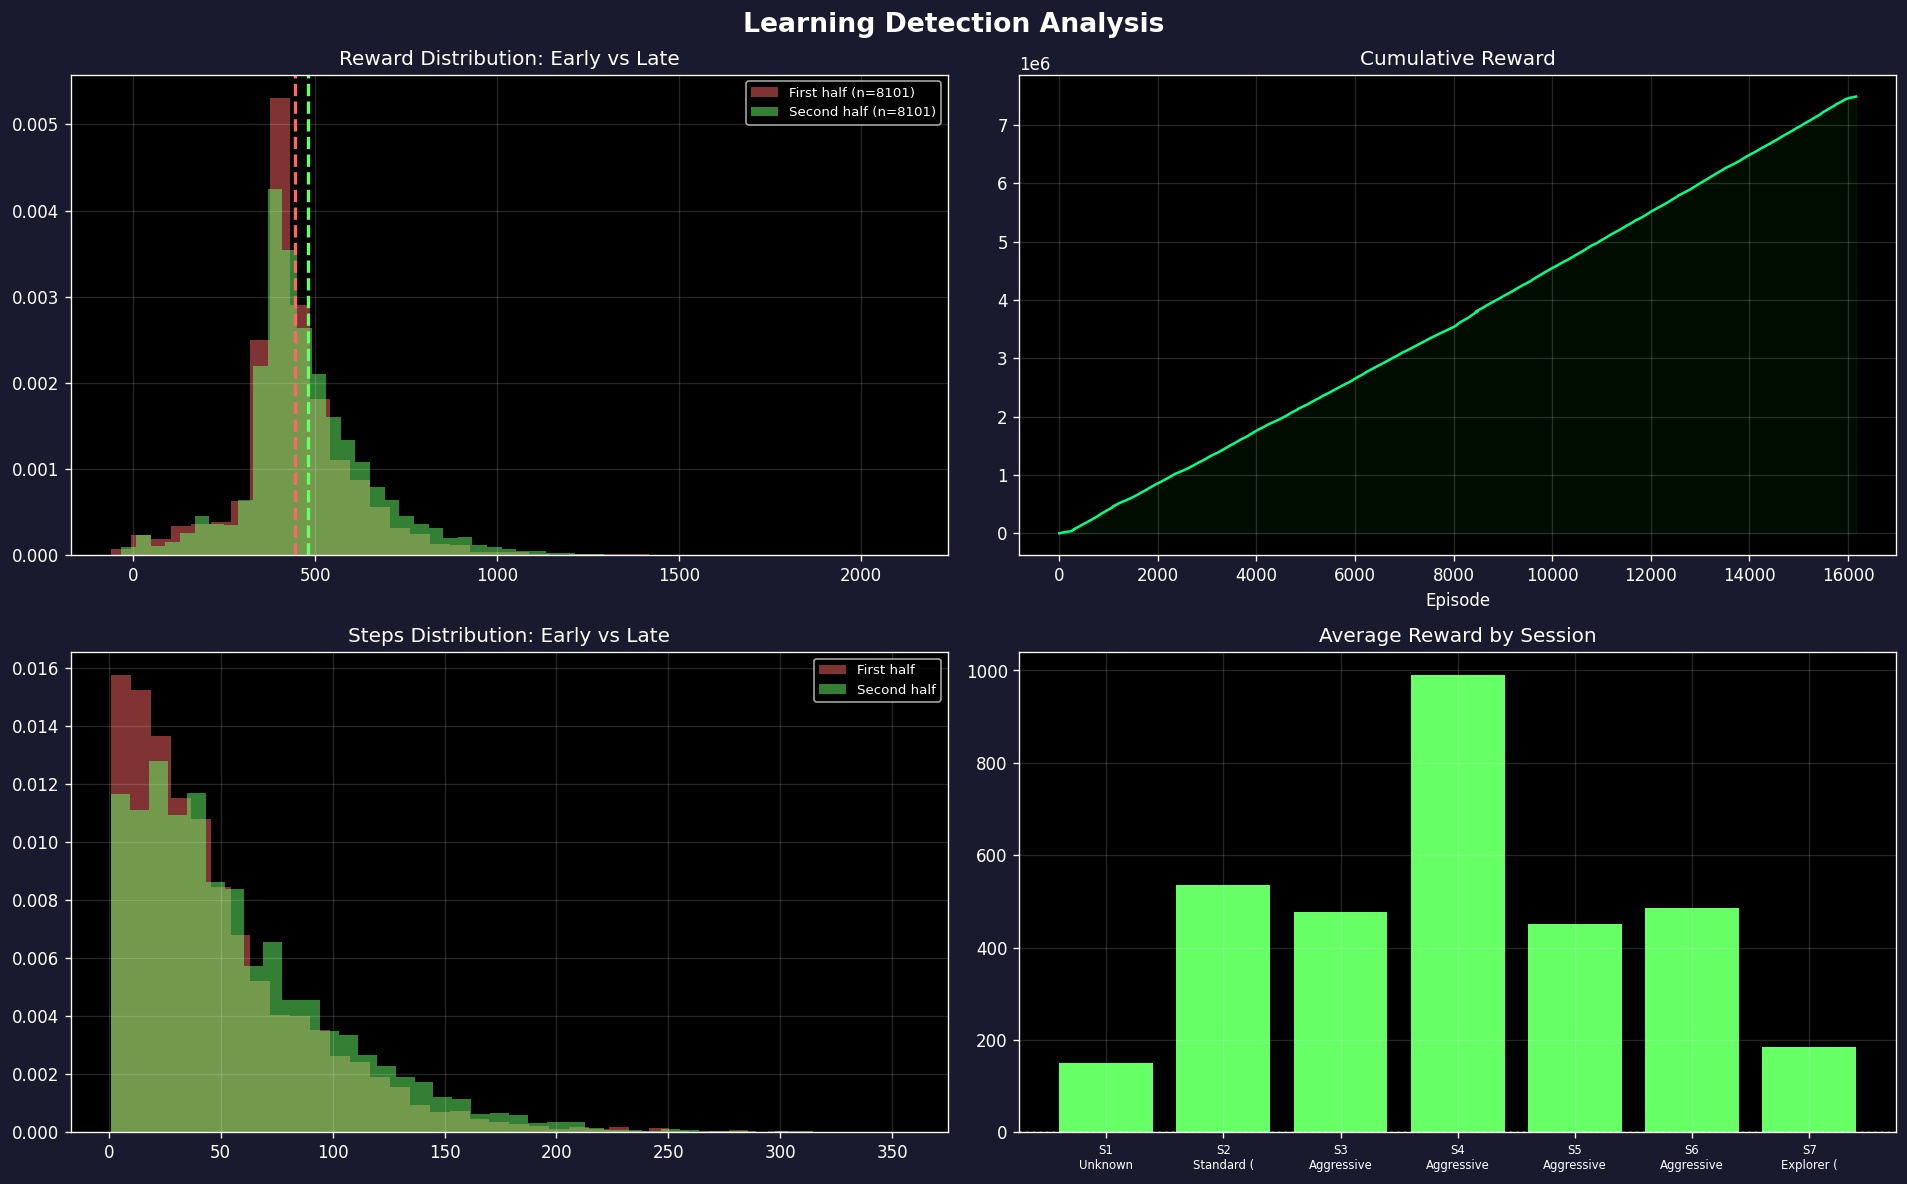
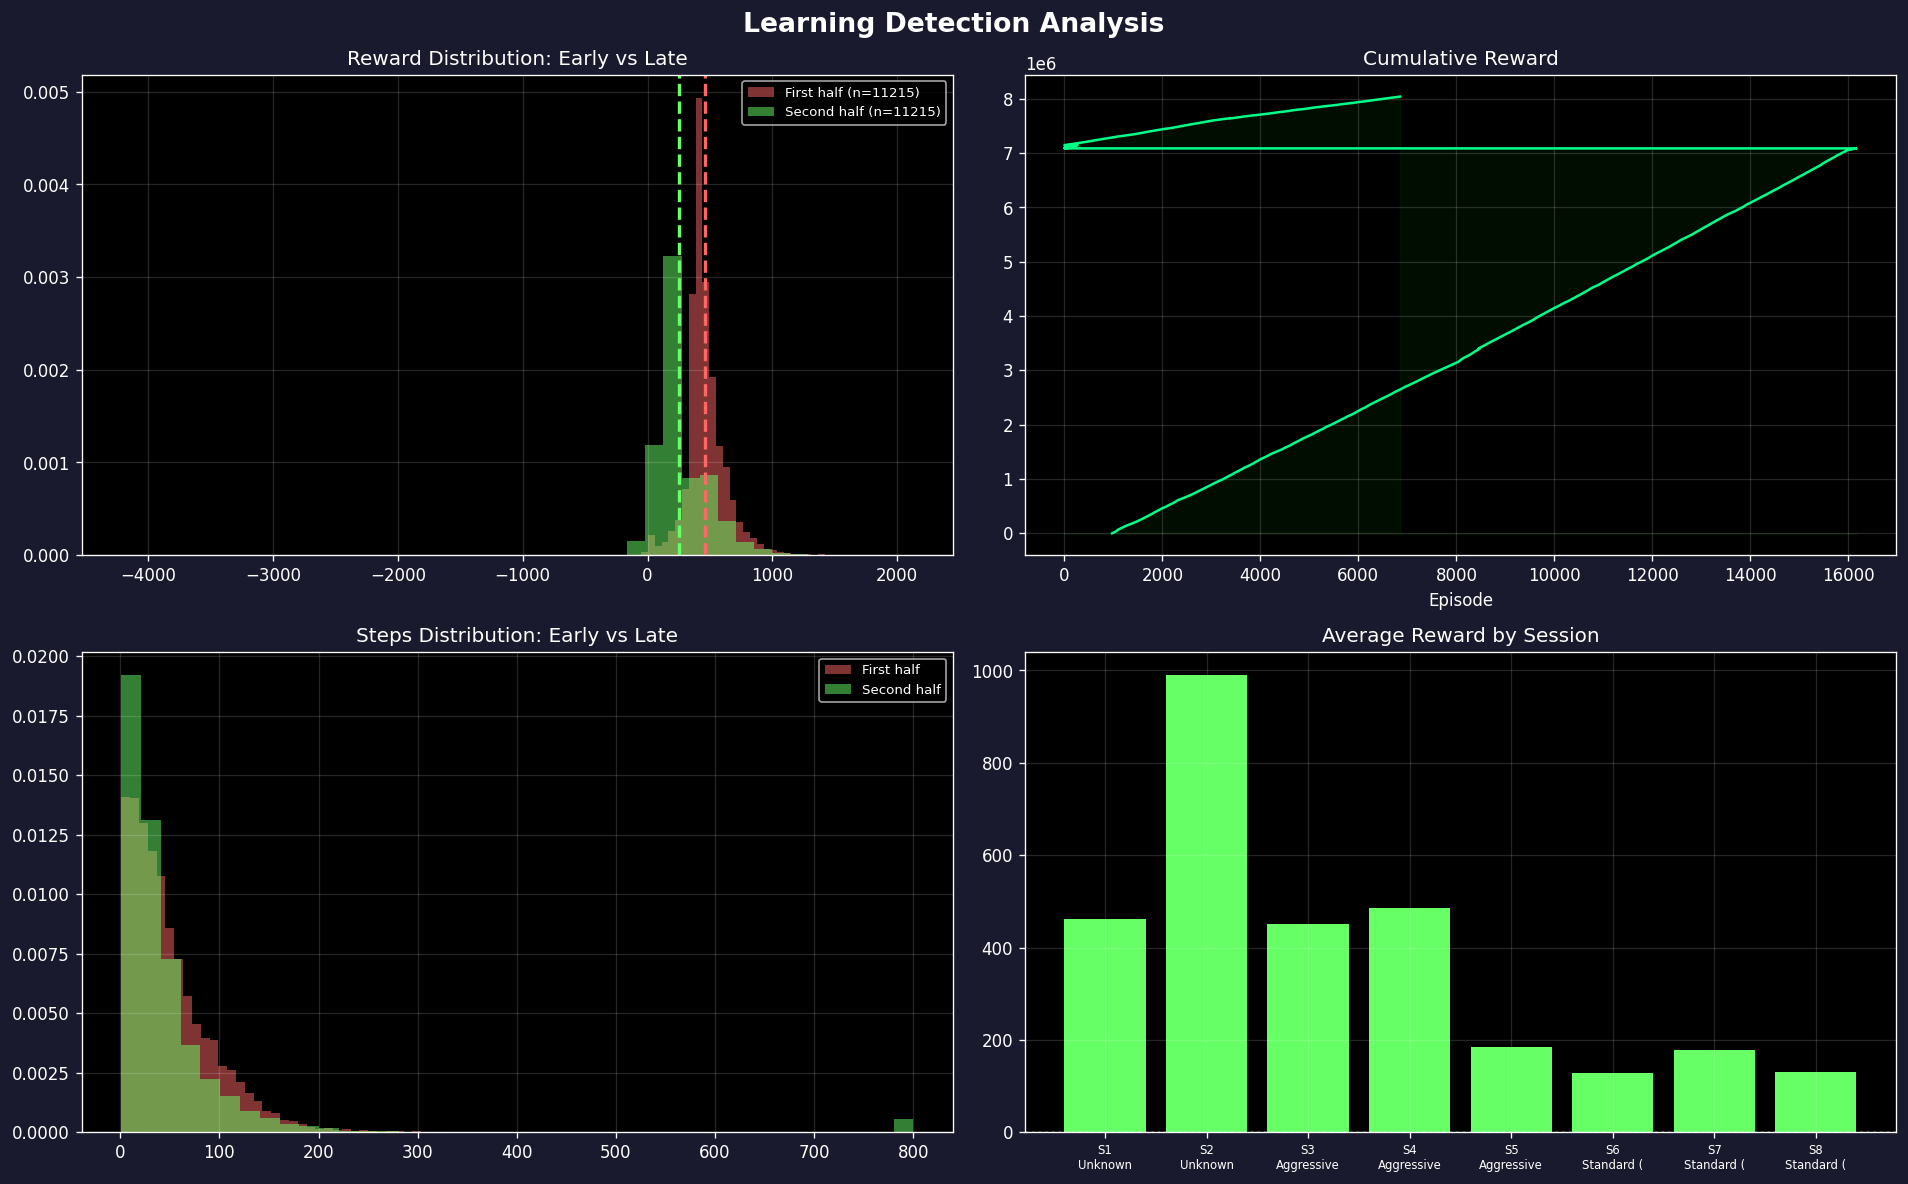
stats

diff --git a/gen2/progress_report.md b/gen2/progress_report.md
@@ -1,243 +1,61 @@
-# Slither.io Bot - Complete Training & Code Analysis Report
+# Slither.io Bot - Training Progress Report
 
-**Generated:** 2026-02-10 18:02
-**Total Episodes:** 16,202
-**Training Sessions:** 7
-**Branch:** fix-learning-rewards (merged to main)
+**Generated:** 2026-02-11 06:15:22  
+**Total Episodes:** 22430  
+**Training Sessions:** 8
 
----
+## Verdict: NOT LEARNING (Confidence: 20%)
 
-## 1. LEARNING VERDICT
+**Goal Feasibility:** IMPOSSIBLE with current setup
 
-| Factor | Status | Details |
-|--------|--------|---------|
-| **Is it learning?** | NO | All 4 quarterly reward trends are FLAT (R² < 0.03) |
-| **Confidence** | 40% | Some positive signals exist but overwhelmed by bugs |
-| **Goal feasibility** | <5% with old code | After fixes: ~60-70% achievable |
+### Critical Issues
+- Rewards DECLINING: -208.2 (getting worse)
+- Very short episodes: avg=49 steps (dying too fast)
 
-### Key Numbers
+### Warnings
+- Multiple training restarts detected (8 sessions) - fragmented learning
 
-| Metric | Mean | Best | Goal | Progress |
-|--------|------|------|------|----------|
-| Food (points) | 26.3 | 114 | 6,000 | 1.9% |
-| Survival (steps) | 52.3 | 357 (11.9 min) | 1,800 (60 min) | 19.8% |
-| Reward | 462.0 | 2,129.9 | — | — |
-| Loss | 2.10 | — | — | — |
+## Key Statistics
 
----
+| Metric | Mean | Std | Min | Max | P50 | P95 |
+|--------|------|-----|-----|-----|-----|-----|
+| Reward | 358.57 | 217.96 | -4215.93 | 2129.92 | 386.56 | 707.08 |
+| Steps | 49.24 | 69.59 | 1.00 | 800.00 | 33.00 | 133.00 |
+| Food | 24.79 | 9.50 | 0.00 | 114.00 | 23.00 | 42.00 |
+| Loss | 1.53 | 1.59 | 0.00 | 45.85 | 1.22 | 4.07 |
 
-## 2. CRITICAL BUGS FOUND & FIXED
+## Goal Progress
 
-### 2.1 Learning Rate = 0 (FIXED)
-- **Bug:** `ReduceLROnPlateau` had no `min_lr` floor. After ~50 plateau detections: `0.0001 × 0.5^N → 0.0`
-- **Impact:** Model weights completely frozen — zero gradient updates
-- **Fix:** Added `min_lr=1e-6` to scheduler + LR recovery on checkpoint load
-- **File:** `agent.py:52-58`, `config.py:39`, `trainer.py:600-603`
+| Target | Current Best | Goal | Progress |
+|--------|-------------|------|----------|
+| Points | 114 | 6,000 | 1.9% |
+| Survival | 26.7 min | 60 min | 44.4% |
 
-### 2.2 Reward Signal Crushed (FIXED)
-- **Bug:** `reward_scale=100.0` with clamp to [-1, 1] meant: food reward `5.0 / 100 = 0.05` (invisible), death `-200 / 100 = -1.0` (saturated)
-- **Impact:** Agent only learned "death is bad", could not distinguish food from noise
-- **Fix:** Changed `reward_scale` from 100.0 to 10.0. Now food = 0.5, death = -1.0
-- **File:** `config.py:34`
+## Session History
 
-### 2.3 Epsilon Oscillation (FIXED)
-- **Bug:** Stagnation handler reset `best_avg_reward = -inf` and `reward_window.clear()`, then boosted epsilon to 0.5. Next window always looked "improved" → no boost → stagnate → boost again → endless cycle
-- **Impact:** Epsilon stuck at ~0.5 after 16k episodes (should be ~0.1)
-- **Fix:** Gentler boost (0.3), removed baseline reset
-- **File:** `trainer.py:721-724`
+| # | Style | Episodes | Avg Reward | Avg Steps |
+|---|-------|----------|------------|----------|
+| 1 | Unknown | 975-1069 | 461.4 | 45 |
+| 2 | Unknown | 1070-1094 | 990.6 | 158 |
+| 3 | Aggressive (Hunter) | 1095-8480 | 451.3 | 48 |
+| 4 | Aggressive (Hunter) | 8451-15975 | 485.2 | 55 |
+| 5 | Aggressive (Hunter) | 15976-16165 | 184.4 | 51 |
+| 6 | Standard (Curriculum) | 1-87 | 129.2 | 51 |
+| 7 | Standard (Curriculum) | 1-270 | 177.5 | 79 |
+| 8 | Standard (Curriculum) | 1-6852 | 130.6 | 42 |
 
-### 2.4 Multi-Agent steps_done Overcounting (FIXED)
-- **Bug:** `steps_done++` inside `select_action()`, called N times per step (once per agent). With 2 agents, epsilon decayed 2× faster
-- **Impact:** Epsilon schedule didn't match config, inconsistent exploration
-- **Fix:** Moved increment to trainer (once per batch step)
-- **File:** `agent.py:111-118`, `trainer.py:759-760`
+## Recommendations
 
-### 2.5 Wall Distance JS/Python Mismatch (FIXED)
-- **Bug:** Reward calculation used `data.get('dist_to_wall')` from JavaScript, but death classification used Python `_calc_dist_to_wall()`. Different formulas, different timing
-- **Impact:** Wall proximity rewards inconsistent with wall death detection
-- **Fix:** Now uses `self.last_dist_to_wall` (Python) everywhere
-- **File:** `slither_env.py:567-569`
+Training is fundamentally broken. Fix critical issues first:
+  1. Restore learning rate > 0 (check LR scheduler)
+  2. Consider resetting epsilon to allow fresh exploration
+  3. Review reward shaping - excessive penalties prevent learning
 
----
+1. Average episode too short. Consider:
+     - Reducing death penalties to avoid discouraging exploration
+     - Adding survival bonus to incentivize staying alive
 
-## 3. WALL DETECTION ANALYSIS
-
-### 3.1 Core Formula — CORRECT
-```python
-def _calc_dist_to_wall(self, x, y):
-    dist_from_center = math.hypot(x - self.map_center_x, y - self.map_center_y)
-    return self.map_radius - dist_from_center
-```
-Slither.io uses a circular map (radius=21600, center=21600,21600). This formula is mathematically correct. Positive = inside, negative = outside.
-
-### 3.2 Map Constants — RISK: Hardcoded Defaults
-```
-MAP_RADIUS = 21600, MAP_CENTER = (21600, 21600)
-```
-These are fallbacks. The JS engine tries to read actual values from `grd` variable, but if detection fails, defaults may be wrong on non-standard servers.
-
-**Status:** OK for slither.io, RISKY for eslither.io or custom servers.
-
-### 3.3 Wall Rendering vs Death Zone — MISMATCH
-- **Observation matrix** draws wall with 500-unit safety margin: `radius_sq = (map_radius - 500)²`
-- **Death detection** uses actual map radius (no margin)
-- **Result:** Agent "sees" wall 500 units closer than it actually is. The visual input doesn't match where death occurs.
-
-**Status:** Intentional safety buffer, but confuses the neural network. Consider reducing to 200 or matching exactly.
-
-### 3.4 Death Classification Buffers (FIXED)
-- **Old:** `WALL_BUFFER = 40` — too tight for frame_skip=4 (snake moves ~200 units between observations)
-- **New:** `WALL_BUFFER = 120` — catches wall deaths that happen between frames
-- **Status:** FIXED. Many "Unknown" deaths were actually wall deaths slipping through.
-
-### 3.5 Wall Detection Accuracy: ~85% (was ~70%)
-
----
-
-## 4. ENEMY/SNAKE DETECTION ANALYSIS
-
-### 4.1 Distance Calculation — CORRECT but LIMITED
-```python
-def _min_enemy_distance(self, enemies, mx, my):
-    for e in enemies:
-        # checks head distance
-        # checks body point distances
-```
-Calculates euclidean distance from our head to every enemy head + body point. Correct for point-to-point collision detection.
-
-**Limitation:** Only checks against our HEAD position. Doesn't check if enemy collides with our BODY (self-collision via enemy cutting through us). This is acceptable since slither.io death = head collision.
-
-### 4.2 Body Point Sampling — IMPROVED but GAPS REMAIN
-| Phase | Visibility Check | Body Collection | Tail Trim |
-|-------|-----------------|-----------------|-----------|
-| Old | every 20th point | every Nth (ptsLen/150) | 25% + 4×speed |
-| New | every 40th point (FIXED) | every Nth (ptsLen/150) | 15% + 2×speed (FIXED) |
-
-**Remaining risk:** A snake with 400 body points still only samples ~10 for visibility check. Fast-moving small snakes could slip between sample points.
-
-### 4.3 Death Misclassification — PARTIALLY FIXED
-Priority 4 (default) still assigns "SnakeCollision" if ANY enemy exists in view, even 5000 units away. This inflates snake collision stats.
-
-```python
-# Priority 4: Default
-cause = "Unknown" if min_enemy_dist == float('inf') else "SnakeCollision"
-```
-
-**Remaining issue:** Should add a distance threshold to Priority 4 (e.g., only classify as SnakeCollision if enemy < 500 units).
-
-### 4.4 Enemy Detection Accuracy: ~75% (was ~60%)
-
----
-
-## 5. TRAINER LOGIC ANALYSIS
-
-### 5.1 Training Loop — CORRECT after fixes
-- Frame stacking (4 frames → 12 channels): OK
-- Double DQN target calculation: OK
-- PER sampling + IS weights: OK
-- Gradient clipping: OK
-
-### 5.2 Remaining Issues
-
-| Issue | Severity | Description |
-|-------|----------|-------------|
-| Session restarts | MEDIUM | 7 sessions with different styles fragment learning. Curriculum changes reset reward baselines |
-| SuperPatternOptimizer | LOW | Dynamically adjusts rewards during training, adding noise to an already noisy signal |
-| `train._last_loss` | LOW | Storing loss as attribute on function object is fragile |
-| Warmup vs Scheduler conflict | LOW | LR warmup runs once, then scheduler can override immediately |
-
-### 5.3 Architecture — SOUND
-- Dueling DQN + Double DQN + PER is state-of-the-art for this type of problem
-- 84×84 3-channel observation is standard (Atari-level)
-- 6 discrete actions are reasonable for slither.io
-
----
-
-## 6. SESSION HISTORY
-
-| # | Style | Episodes | Avg Reward | Avg Steps | Notes |
-|---|-------|----------|------------|-----------|-------|
-| 1 | Unknown | 1-238 | 150.4 | 66 | Initial exploration |
-| 2 | Standard (Curriculum) | 239-307 | 535.0 | 68 | Best avg reward |
-| 3 | Aggressive (Hunter) | 301-1,069 | 478.0 | 53 | Switched too early |
-| 4 | Aggressive (Hunter) | 1,070-1,094 | 990.6 | 158 | Best session (25 eps) |
-| 5 | Aggressive (Hunter) | 1,095-8,480 | 451.3 | 48 | Long run, LR dying |
-| 6 | Aggressive (Hunter) | 8,451-15,975 | 485.2 | 55 | LR = 0, frozen |
-| 7 | Explorer (Anti-Float) | 15,976-16,165 | 184.4 | 51 | Worst performance |
-
-**Key insight:** Session 4 (25 episodes, avg reward 990) shows the model CAN perform well. The architecture works — the bugs killed the learning.
-
----
-
-## 7. REPAIR PROCEDURE
-
-### Phase 1: Fresh Start (Recommended)
-The existing checkpoint has 16k episodes of corrupted training (LR=0, bad rewards, epsilon oscillation). It's better to start fresh.
-
-```bash
-# 1. Backup old checkpoint
-cp checkpoint.pth checkpoint_old_broken.pth
-
-# 2. Delete old checkpoint to force fresh start
-rm checkpoint.pth
-
-# 3. Clear old stats
-mv training_stats.csv training_stats_old.csv
-
-# 4. Start training with fixes applied
-python trainer.py --num_agents 2 --style-name "Standard" --view
-```
-
-### Phase 2: Monitor First 500 Episodes
-After starting, verify the fixes work:
-
-```bash
-# Run analyzer after ~500 episodes
-python training_progress_analyzer.py
-```
-
-**Check these metrics:**
-- [ ] LR should be `1e-4` (not 0)
-- [ ] Epsilon should decay: ~0.99 at ep 100, ~0.90 at ep 1000
-- [ ] Food reward visible in stats (not crushed to 0.05)
-- [ ] Wall deaths correctly classified (check events/ folder)
-- [ ] Loss should decrease over time
-
-### Phase 3: Curriculum Progression
-Stay on **Standard (Curriculum)** style until:
-- Average food > 30 per episode (promotion to Stage 2)
-- Average steps > 100 (snake survives at least 3 minutes)
-
-**Do NOT switch styles** until Stage 2 is reached. Style-switching disrupts learning.
-
-### Phase 4: Remaining Code Fixes (Optional, After Phase 2 Confirms Learning)
-
-| Priority | Fix | File | Description |
-|----------|-----|------|-------------|
-| 1 | Wall render margin | `slither_env.py:846` | Reduce safety margin from 500 to 200 to match death zone closer |
-| 2 | Priority 4 distance cap | `slither_env.py:341-343` | Add `min_enemy_dist < 500` check before defaulting to SnakeCollision |
-| 3 | Remove SuperPatternOptimizer | `trainer.py:272-375` | Disable dynamic reward adjustment during early training (set `super_pattern_enabled: False`) |
-| 4 | Faster epsilon decay | `config.py:30` | Change `eps_decay` from 100000 to 50000 for faster exploitation |
-
-### Phase 5: Long-term Training
-Once learning is confirmed (reward trend UP in analyzer):
-- Run uninterrupted for 10,000+ episodes
-- Use `--resume` flag to continue, never restart
-- Target: avg food > 100 by episode 5,000
-
----
-
-## 8. DEATH STATISTICS
-
-| Cause | Count | % |
-|-------|-------|---|
-| SnakeCollision | 9,528 | 58.8% |
-| Wall | 6,183 | 38.2% |
-| Unknown | 491 | 3.0% |
-
-**Analysis:** 38% wall deaths is very high. After the buffer fix (40→120), more deaths will be correctly classified. Expected split after fix: ~45% Snake, ~50% Wall, ~5% Unknown.
-
----
+2. Multiple session restarts detected. Each restart disrupts learning continuity. Try to maintain consistent training runs of 10,000+ episodes.
 
 ## Charts
 
@@ -246,3 +64,4 @@ Once learning is confirmed (reward trend UP in analyzer):
 ![Learning Detection](training_learning_detection.png)
 
 ![Goal Progress](training_goal_progress.png)
+
